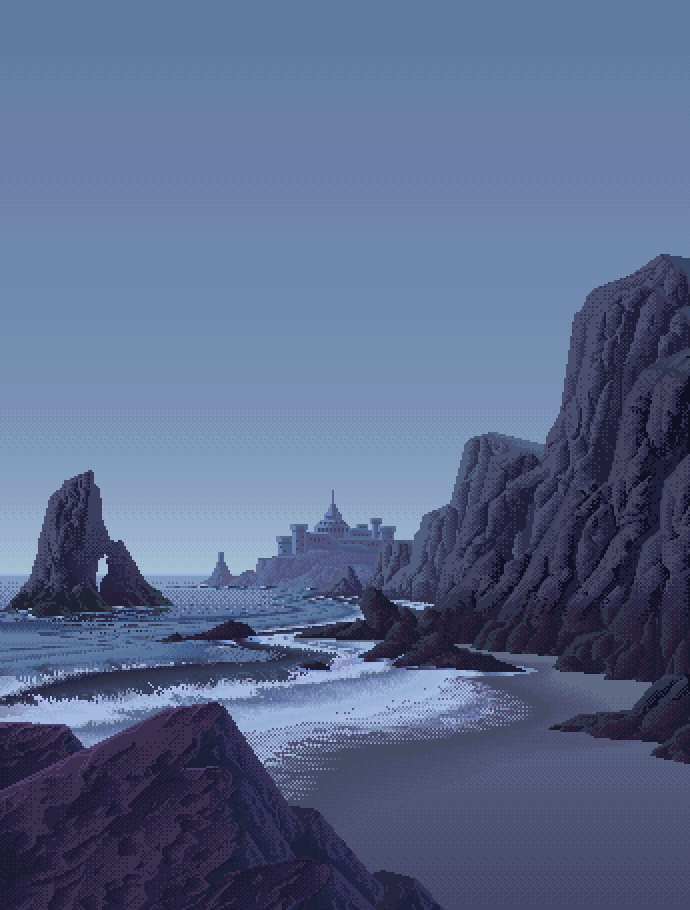
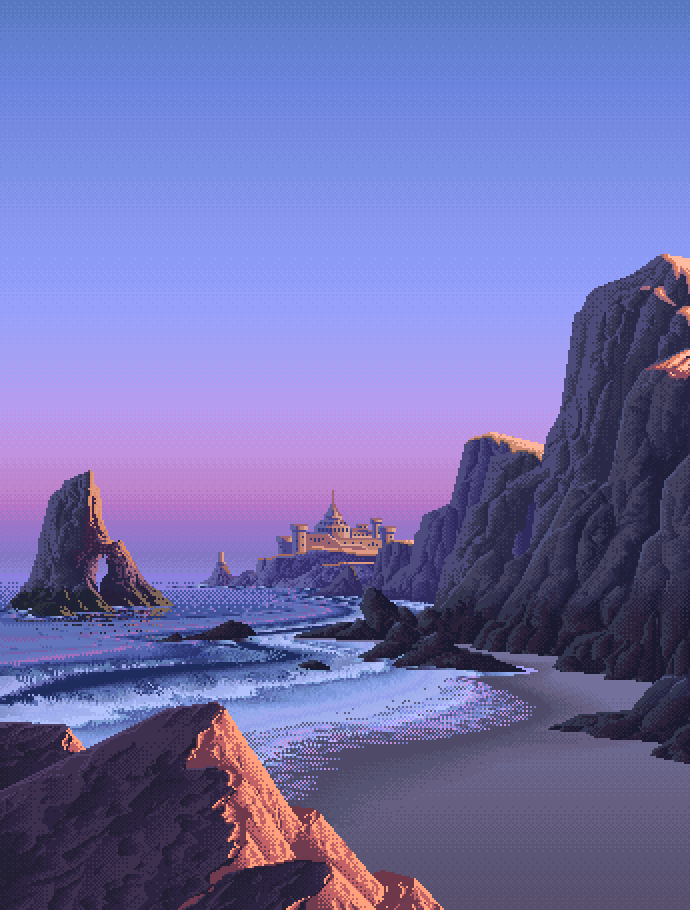
New September image; crisp edges

diff --git a/livingworlds/style/main.css b/livingworlds/style/main.css
@@ -76,6 +76,8 @@ video {
 .scene-wrapper {
   position: relative;
   font-size: 0;
+  image-rendering: crisp-edges;
+  image-rendering: pixelated;
 }
 
 .scene {
